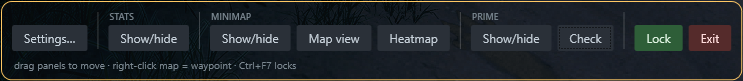
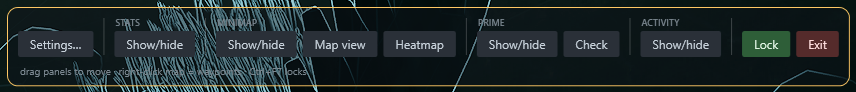
README: 1.25 screenshots
The hero shot and every widget crop retaken on 1.25.0 in the default
two-column layout (Prime tracker, Activity feed, minimap with a tracked
waypoint and the trail, stats panel with the fracture badges, the control
panel with its Activity group), plus a first image for the Activity feed.
Alt texts describe the new images.

diff --git a/README.md b/README.md
@@ -9,7 +9,7 @@ It is **fully external**: the only thing it ever does is replay the same authent
 [![Downloads](https://img.shields.io/github/downloads/DavidKatona/PandoraOverlay/total)](https://github.com/DavidKatona/PandoraOverlay/releases)
 [![License: MIT](https://img.shields.io/github/license/DavidKatona/PandoraOverlay)](LICENSE)
 
-![The overlay in-game, in edit mode: the Prime tracker docked left, the player-centered minimap and stats panel on the right, and the control panel bottom-center, over a Deinosuchus on a night-time riverbank](docs/screenshot.png)
+![The overlay in-game, in edit mode, in the default two-column layout: the Prime tracker and the Activity feed top-left, the player-centered minimap and the stats panel top-right, and the control panel bottom-center, over a Deinosuchus in night-time grassland](docs/screenshot.png)
 
 ## Contents
 
@@ -66,7 +66,7 @@ The pasted cookie is encrypted with **Windows DPAPI** (scoped to your Windows us
 - On a fresh install the panels come up in **two columns**, starting just under the game's own top HUD readouts: the Prime tracker at the top-left with the Activity feed under it, the minimap at the top-right with the stats panel under it. The minimap and Prime tracker are the same size, as are the stats panel and Activity feed, so the columns match. Drag anything anywhere afterwards; **Reset positions** in Settings → General puts them all back (sizes stay as you set them).
 - The edit-mode hotkey (**Ctrl+F7** by default) toggles **edit mode** — the panel borders turn orange, you can drag them anywhere, and a **control panel** appears (bottom-center by default, draggable like everything else) with its buttons in one row, grouped by widget: **Settings**, then **Stats** (Show/hide), **Minimap** (Show/hide, Map view, Heatmap), **Prime** (Show/hide, Check) and **Activity** (Show/hide), and finally **Lock** and **Exit**. The hotkey (or Lock) locks everything back. Positions are remembered, and the panels never change size or move between modes.
 
-  ![The edit-mode control panel: Settings, then the Stats, Minimap and Prime button groups under small captions, Lock and Exit, and the hint line underneath](docs/control-panel.png)
+  ![The edit-mode control panel: Settings, then the Stats, Minimap, Prime and Activity button groups under small captions, Lock and Exit, and the hint line underneath](docs/control-panel.png)
 
 - While dragging, panels **snap** to the screen edges, a small inset from them, and to each other — **guide lines** light up along whatever you snapped to (orange = screen, blue = the other panel). Hold **Alt** while dragging for pixel-perfect free placement.
 - You can't lose a panel off-screen: locking edit mode (or restarting the app) pulls every panel fully back into view — dragging itself stays free, so moving panels to another monitor still works.
@@ -81,7 +81,7 @@ The pasted cookie is encrypted with **Windows DPAPI** (scoped to your Windows us
 
 ### Stats panel
 
-![The stats panel in edit mode: a male Deinosuchus at 96,7% growth, the four stat bars — health, stamina, hunger, thirst — and the live status line](docs/stats-panel.png)
+![The stats panel in edit mode: a fully grown male Deinosuchus, the four stat bars — health, stamina, hunger at 13% with "~15m" left at the fill's tip, thirst — the three dim fracture badges, and the live status line](docs/stats-panel.png)
 
 - The stats panel can be **hidden** entirely (control panel → Stats → Show/hide) — the app keeps running from the tray, and hotkeys and the minimap stay live. Its size is adjustable with the Scale slider in Settings → Stats panel.
 
@@ -98,7 +98,7 @@ The pasted cookie is encrypted with **Windows DPAPI** (scoped to your Windows us
 
 ### Minimap
 
-![The minimap in edit mode: the player-centered view of a river delta with the orange player arrow, and the footer showing "centered · 5,22×"](docs/minimap.png)
+![The minimap in edit mode: the player-centered view of a lake shore with the orange player arrow, the breadcrumb trail and a tracked waypoint's ringed diamond, the scale bar and the heading and speed pill in the corners, and the footer showing "centered · 4,54× · ◆ North Lake · 178 m"](docs/minimap.png)
 
 - The **minimap** is a separate window sharing the same edit mode: drag it independently, show or hide it from the control panel. Your arrow glides between updates and rotates with your facing. It adds zero extra requests — both windows feed off the same poll.
 - Two views, toggled with the control panel's **Map view** button (or **Ctrl+F5** any time): the whole island (default), or **player-centered** (north-up, the map pans under a fixed arrow). In the centered view the mouse wheel zooms (1.25–6×) while in edit mode. Both the view and zoom are remembered (and also editable in Settings), and the footer under the map always shows the active view (and zoom).
@@ -121,7 +121,7 @@ The pasted cookie is encrypted with **Windows DPAPI** (scoped to your Windows us
 
 ### Prime tracker
 
-![The Prime tracker: "Prime Elder" status, the ten conditions as a ✓/✗ list, and the footer showing "Checked 08:29 · Deinosuchus" with the "next check in 0:43" countdown](docs/prime-tracker.png)
+![The Prime tracker: "Prime Elder" status, the ten conditions as a ✓/✗ list, and the footer showing "Checked 15:25 · Deinosuchus" with the "next check in 4:17" countdown](docs/prime-tracker.png)
 
 - The **Prime tracker** is a third widget (docked to the left screen edge by default, draggable like the others) showing your Prime status and the server's ten Prime conditions as a ✓/✗ list — the same result as the website's "Prime Check" box. 5 of 10 are needed for Prime.
 - It never checks by itself. Press **Ctrl+F8** any time (rebindable in Settings), or **Check** in the control panel's Prime group. The server enforces a cooldown between checks — 5 minutes normally, shorter with some supporter ranks — so after each check the overlay asks the server for *your* cooldown, counts it down in the widget, and remembers it across restarts. A click during the cooldown sends nothing. You need to be spawned in for a check to work.
@@ -129,6 +129,8 @@ The pasted cookie is encrypted with **Windows DPAPI** (scoped to your Windows us
 - Hide or show the widget with **Show/hide** in the control panel's Prime group. Its size has its own Scale slider in Settings → Prime tracker (75–150%).
 
 ### Activity feed
+
+![The Activity feed: "1 of 3 friends in game" in the header, then the lines "Prime check · 7/10 · Prime Elder", "You spawned as Deinosuchus 100%" and "Hunger under 20%" with orange dots, fading with age, and "In game: Zoro (Tyrannosaurus)" at the bottom](docs/activity-feed.png)
 
 - The **Activity widget** (a fourth panel, docked under the Prime tracker by default) is a feed of the last ten minutes: each line reports something that just happened, newest at the top, fading as it ages. Every other cue on the overlay is momentary — the growth readout blinks, a chime plays once — so this is the one you can read after a fight or when you come back to the keyboard. With friends' events included, its header also says how many friends you have and how many are in game.
 - **Your friends' events** (on by default): a friend spawned in ("spawned as Deinosuchus 42%"), left the game, started a fresh dino of the same species, switched dino, reached a growth stage, took a fracture, came within 200 m of you, or joined or left your list. Several friends leaving at once (a server restart) become one line, and "left the game" is worded neutrally on purpose — from outside, a logout, a restart and a death look the same.
